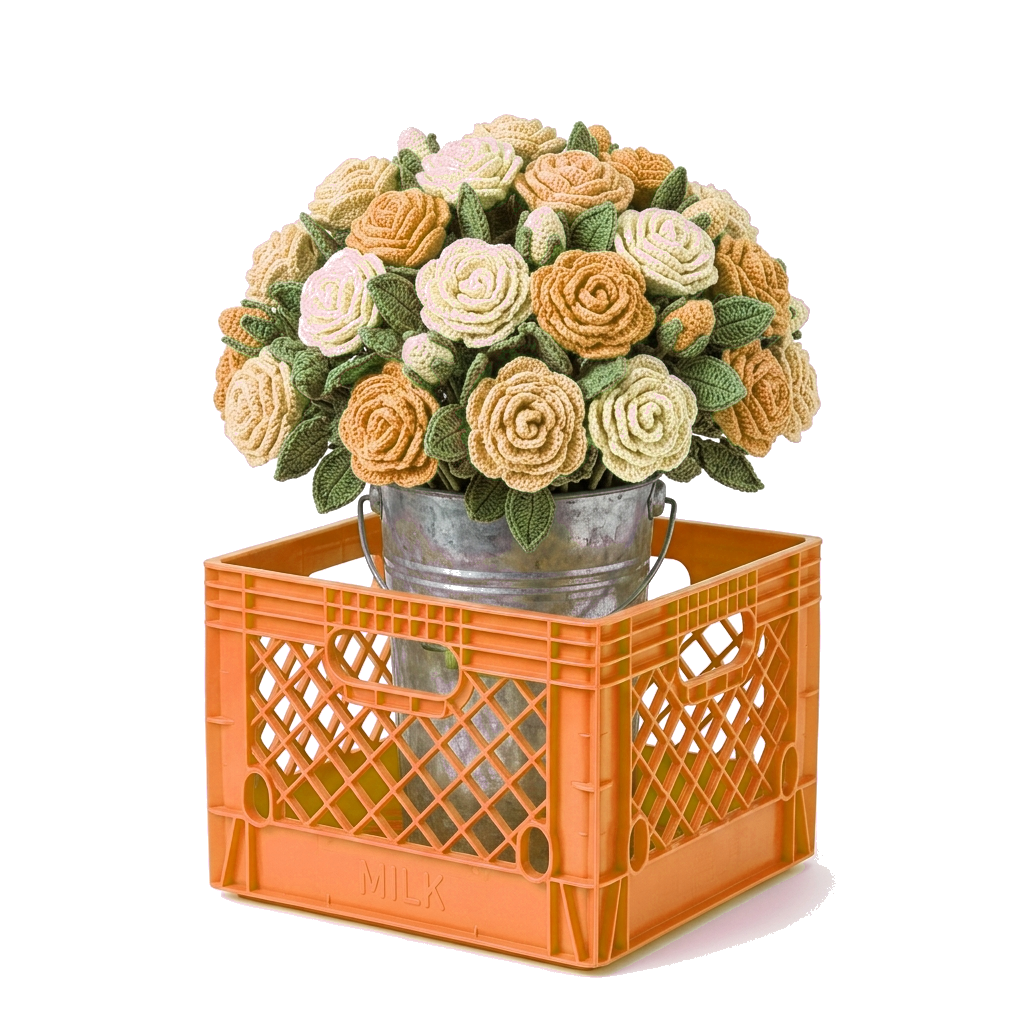
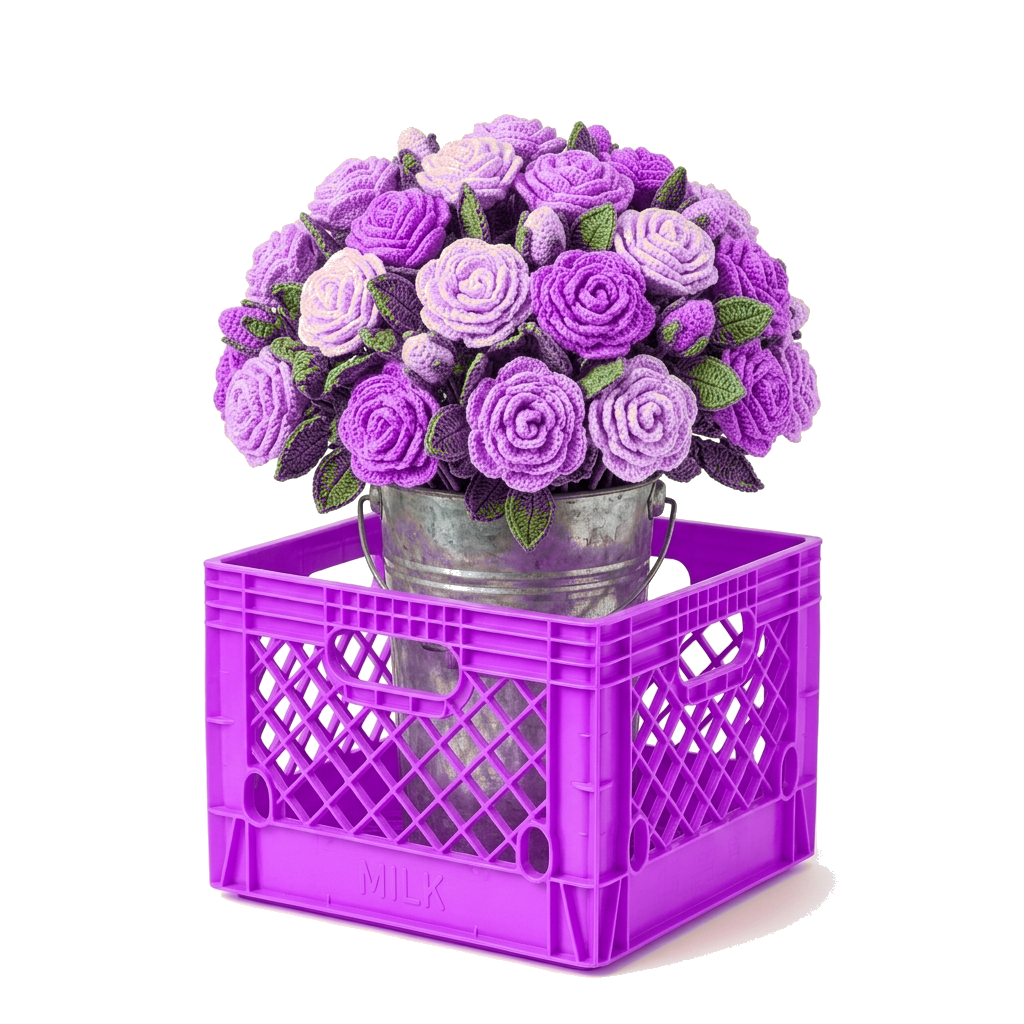
fix(bouquet-builder): restore solid opaque cutout for white rose, align shelf crates with exact flower colors and names, and fix tag truncation

diff --git a/src/components/bouquet-builder/FlowerCrateShelf.tsx b/src/components/bouquet-builder/FlowerCrateShelf.tsx
@@ -14,18 +14,30 @@ interface FlowerCrateShelfProps {
   hasNote: boolean;
 }
 
-// 6 distinct vibrant retro milk crates matching Petal Post
-const CRATE_VARIETIES = [
-  '/boutique/crate_pink_roses.png',     // Hot Pink crate
-  '/boutique/crate_yellow_blooms.png',   // Retro Orange crate
-  '/boutique/crate_red_tulips.png',      // Milk White crate
-  '/boutique/crate_white_daisies.png',   // Magenta crate
-  '/boutique/crate_purple_lavender.png', // Amber Orange crate
-  '/boutique/crate_blue_bells.png',      // Baby Blue crate
-];
+// Color-coordinated photorealistic retro milk crates matching Petal Post
+const getCrateImageForStem = (stem: FlowerStem): string => {
+  const color = stem.color;
+  const name = stem.name.toLowerCase();
 
-const getCrateImageForIndex = (index: number): string => {
-  return CRATE_VARIETIES[index % CRATE_VARIETIES.length];
+  if (color === 'Maroon' || name.includes('red') || name.includes('maroon') || name.includes('thai')) {
+    return '/boutique/crate_red_tulips.png'; // Rich crimson/red blooms in milk crate
+  }
+  if (color === 'Off White' || name.includes('off white') || name.includes('white') || name.includes('jasmine')) {
+    return '/boutique/crate_white_daisies.png'; // Crisp ivory/off-white blooms in milk crate
+  }
+  if (color === 'Butter Yellow' || name.includes('yellow') || name.includes('sunflower') || name.includes('marigold')) {
+    return '/boutique/crate_yellow_blooms.png'; // Sunburst butter-yellow blooms in milk crate
+  }
+  if (color === 'Pastel Lilac' || name.includes('purple') || name.includes('lilac') || name.includes('lavender')) {
+    return '/boutique/crate_purple_lavender.png'; // Royal purple/lilac blooms in milk crate
+  }
+  if (color === 'Sky Blue' || name.includes('blue') || name.includes('delphinium') || name.includes('sky')) {
+    return '/boutique/crate_blue_bells.png'; // Bright sky blue blooms in milk crate
+  }
+  if (color === 'Green' || name.includes('leaf') || name.includes('foliage') || name.includes('sage') || name.includes('monster')) {
+    return '/boutique/crate_green_foliage.png'; // Lush green foliage in milk crate
+  }
+  return '/boutique/crate_pink_roses.png'; // Pastel pink blooms in milk crate
 };
 
 export const FlowerCrateShelf: React.FC<FlowerCrateShelfProps> = ({
@@ -102,7 +114,7 @@ export const FlowerCrateShelf: React.FC<FlowerCrateShelfProps> = ({
         >
           {filteredStems.map((stem, index) => {
             const count = selectedFlowers[stem.variantId]?.quantity || 0;
-            const crateImage = getCrateImageForIndex(index);
+            const crateImage = getCrateImageForStem(stem);
             const flowerSrc = stem.cutoutImage || stem.image;
 
             return (
@@ -156,11 +168,11 @@ export const FlowerCrateShelf: React.FC<FlowerCrateShelfProps> = ({
                 </div>
 
                 {/* ── BOUTIQUE SHELF HANGING PRICE TAG (Matching Petal Post) ── */}
-                <div className="mt-1.5 w-[116px] sm:w-[130px] bg-[#FFFDF9] border border-[#E2DBD0] rounded-sm py-1 px-1.5 shadow-xs flex flex-col items-center text-center cursor-pointer hover:border-[#811B2B]/40 hover:bg-[#FFFBEA] transition-colors">
-                  <span className="font-['Fredoka'] text-[11px] font-bold text-[#4A1521] truncate max-w-full leading-tight">
+                <div className="mt-1.5 w-[116px] sm:w-[130px] min-h-[46px] bg-[#FFFDF9] border border-[#E2DBD0] rounded-sm py-1 px-1.5 shadow-xs flex flex-col justify-between items-center text-center cursor-pointer hover:border-[#811B2B]/40 hover:bg-[#FFFBEA] transition-colors">
+                  <span className="font-['Fredoka'] text-[10.5px] font-bold text-[#4A1521] leading-tight text-center line-clamp-2">
                     {stem.name}
                   </span>
-                  <span className="font-mono text-[11px] font-black text-[#811B2B] mt-0.5 tabular-nums">
+                  <span className="font-mono text-[11px] font-black text-[#811B2B] tabular-nums">
                     ₹{stem.price.toLocaleString('en-IN')}
                   </span>
                 </div>
